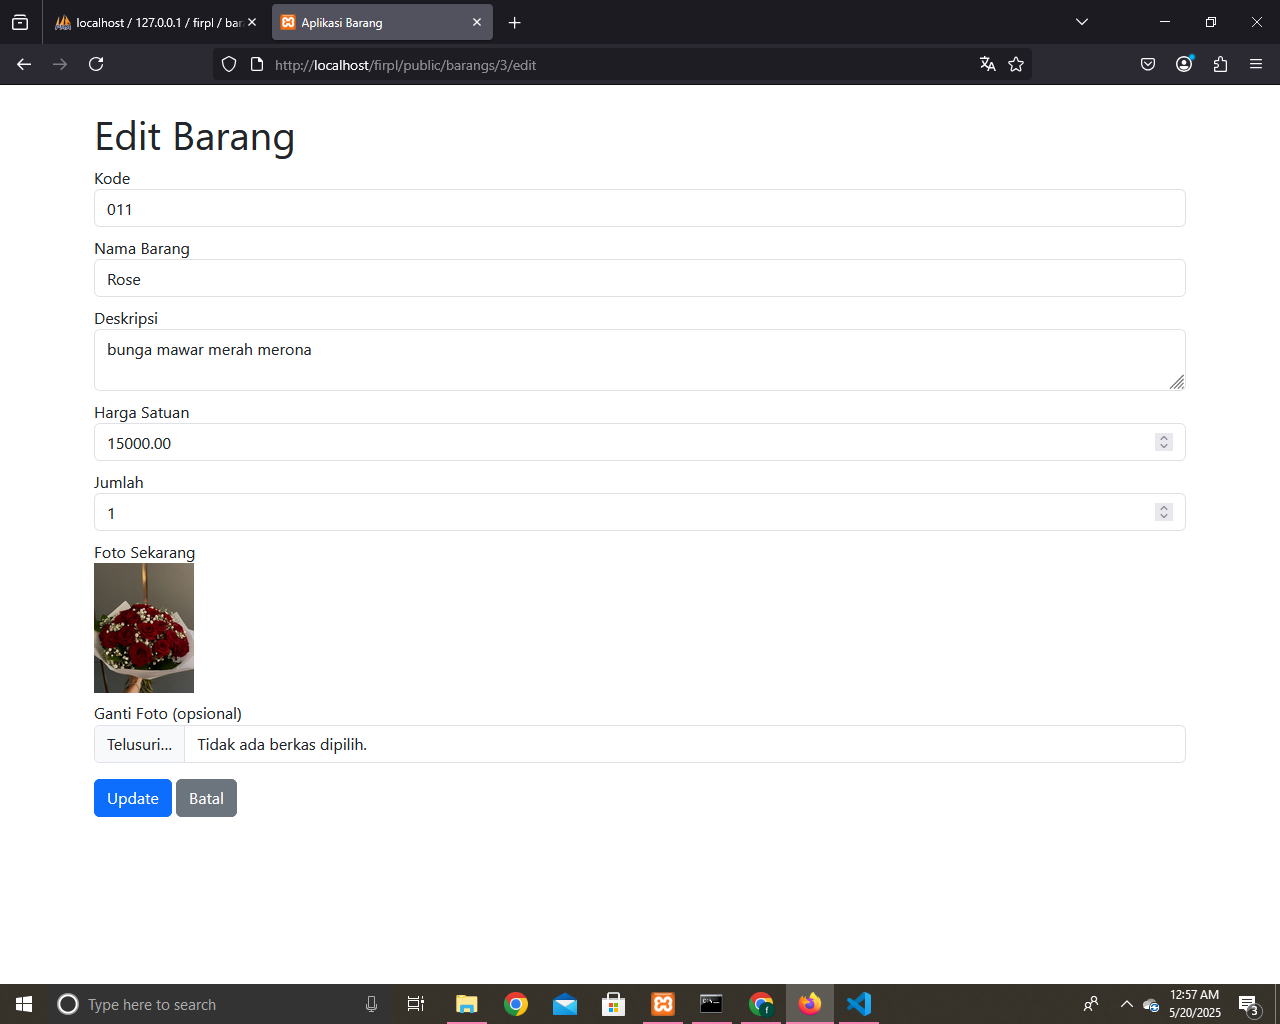
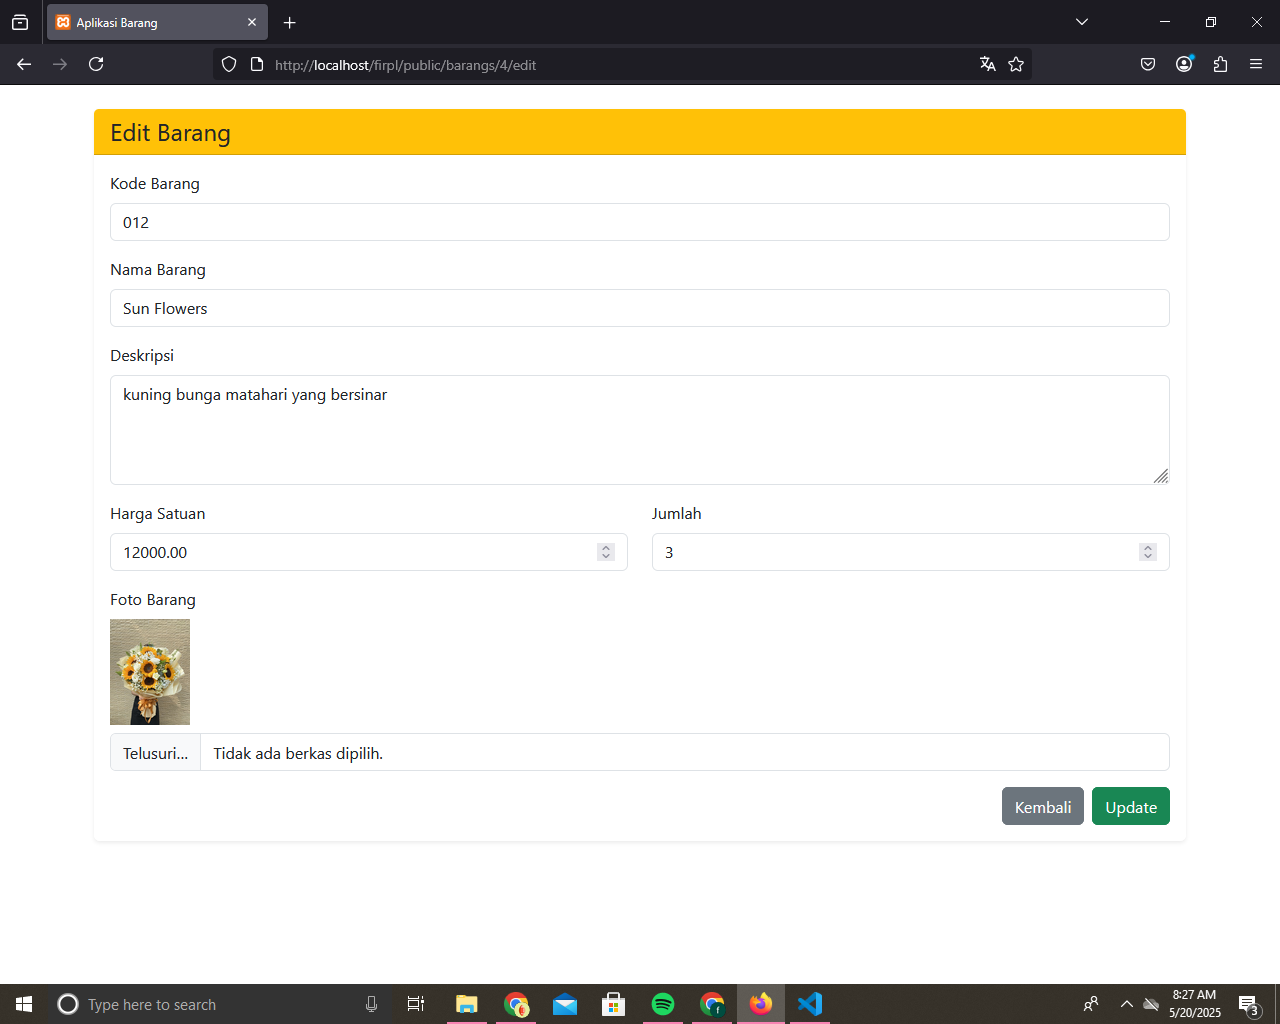
Update kode dan tampilan terbaru

diff --git a/resources/views/barangs/index.blade.php b/resources/views/barangs/index.blade.php
@@ -1,54 +1,62 @@
-@extends('layouts.app') {{-- Kalau belum punya layouts, hapus baris ini dan @section sampai @endsection --}}
+@extends('layouts.app')
 
 @section('content')
 <div class="container">
-    <h1>Daftar Barang</h1>
-    <a href="{{ route('barangs.create') }}" class="btn btn-success mb-3">Tambah Barang</a>
+    <h1 class="mb-4 display-6 fw-bold border-bottom pb-2 text-uppercase text-dark">
+        <i class="bi bi-box-seam-fill me-2 text-primary"></i> Daftar Barang
+    </h1>
+
+    <a href="{{ route('barangs.create') }}" class="btn btn-success mb-4 shadow-sm">
+        <i class="bi bi-plus-circle"></i> Tambah Barang
+    </a>
 
     @if(session('success'))
-        <div class="alert alert-success">
+        <div class="alert alert-success alert-dismissible fade show" role="alert">
             {{ session('success') }}
+            <button type="button" class="btn-close" data-bs-dismiss="alert" aria-label="Close"></button>
         </div>
     @endif
 
-    <table class="table table-bordered">
-        <thead>
-            <tr>
-                <th>Kode</th>
-                <th>Nama Barang</th>
-                <th>Deskripsi</th>
-                <th>Harga Satuan</th>
-                <th>Jumlah</th>
-                <th>Foto</th>
-                <th>Aksi</th>
-            </tr>
-        </thead>
-        <tbody>
-            @foreach($barangs as $barang)
+    <div class="table-responsive shadow-sm">
+        <table class="table table-bordered table-hover align-middle text-center">
+            <thead class="table-dark text-uppercase">
                 <tr>
-                    <td>{{ $barang->kode }}</td>
-                    <td>{{ $barang->nama_barang }}</td>
-                    <td>{{ $barang->deskripsi }}</td>
-                    <td>Rp{{ number_format($barang->harga_satuan, 0, ',', '.') }}</td>
-                    <td>{{ $barang->jumlah }}</td>
-                    <td>
-                        @if($barang->foto)
-                            <img src="{{ asset('storage/' . $barang->foto) }}" width="80">
-                        @else
-                            Tidak ada
-                        @endif
-                    </td>
-                    <td>
-                        <a href="{{ route('barangs.edit', $barang->id) }}" class="btn btn-warning btn-sm">Edit</a>
-                        <form action="{{ route('barangs.destroy', $barang->id) }}" method="POST" style="display:inline-block;" onsubmit="return confirm('Yakin hapus?')">
-                            @csrf
-                            @method('DELETE')
-                            <button class="btn btn-danger btn-sm">Hapus</button>
-                        </form>
-                    </td>
+                    <th class="fw-bold">Kode</th>
+                    <th class="fw-bold">Nama Barang</th>
+                    <th class="fw-bold">Deskripsi</th>
+                    <th class="fw-bold">Harga Satuan</th>
+                    <th class="fw-bold">Jumlah</th>
+                    <th class="fw-bold">Foto</th>
+                    <th class="fw-bold">Aksi</th>
                 </tr>
-            @endforeach
-        </tbody>
-    </table>
+            </thead>
+            <tbody>
+                @foreach($barangs as $barang)
+                    <tr>
+                        <td class="fw-semibold">{{ $barang->kode }}</td>
+                        <td class="fw-semibold">{{ $barang->nama_barang }}</td>
+                        <td>{{ $barang->deskripsi }}</td>
+                        <td>Rp{{ number_format($barang->harga_satuan, 0, ',', '.') }}</td>
+                        <td>{{ $barang->jumlah }}</td>
+                        <td>
+                            @if($barang->foto)
+                                <img src="{{ asset('storage/' . $barang->foto) }}" width="80" class="img-thumbnail">
+                            @else
+                                <span class="text-muted fst-italic">Tidak ada</span>
+                            @endif
+                        </td>
+                        <td>
+                            <a href="{{ route('barangs.edit', $barang->id) }}" class="btn btn-warning btn-sm mb-1">Edit</a>
+                            <form action="{{ route('barangs.destroy', $barang->id) }}" method="POST" style="display:inline-block;" onsubmit="return confirm('Yakin hapus?')">
+                                @csrf
+                                @method('DELETE')
+                                <button class="btn btn-danger btn-sm">Hapus</button>
+                            </form>
+                        </td>
+                    </tr>
+                @endforeach
+            </tbody>
+        </table>
+    </div>
 </div>
 @endsection

diff --git a/resources/views/barangs/edit.blade.php b/resources/views/barangs/edit.blade.php
@@ -1,54 +1,56 @@
 @extends('layouts.app')
 
 @section('content')
-<div class="container">
-    <h1>Edit Barang</h1>
-
-    <form action="{{ route('barangs.update', $barang->id) }}" method="POST" enctype="multipart/form-data">
-        @csrf
-        @method('PUT')
-
-        <div class="form-group mb-2">
-            <label>Kode</label>
-            <input type="text" name="kode" value="{{ $barang->kode }}" class="form-control" required>
+<div class="container mt-4">
+    <div class="card shadow-sm border-0">
+        <div class="card-header bg-warning text-dark">
+            <h4 class="mb-0">Edit Barang</h4>
         </div>
+        <div class="card-body">
+            <form action="{{ route('barangs.update', $barang->id) }}" method="POST" enctype="multipart/form-data">
+                @csrf
+                @method('PUT')
 
-        <div class="form-group mb-2">
-            <label>Nama Barang</label>
-            <input type="text" name="nama_barang" value="{{ $barang->nama_barang }}" class="form-control" required>
+                <div class="mb-3">
+                    <label for="kode" class="form-label">Kode Barang</label>
+                    <input type="text" name="kode" class="form-control" value="{{ $barang->kode }}" required>
+                </div>
+
+                <div class="mb-3">
+                    <label for="nama_barang" class="form-label">Nama Barang</label>
+                    <input type="text" name="nama_barang" class="form-control" value="{{ $barang->nama_barang }}" required>
+                </div>
+
+                <div class="mb-3">
+                    <label for="deskripsi" class="form-label">Deskripsi</label>
+                    <textarea name="deskripsi" class="form-control" rows="4" required>{{ $barang->deskripsi }}</textarea>
+                </div>
+
+                <div class="row">
+                    <div class="col-md-6 mb-3">
+                        <label for="harga_satuan" class="form-label">Harga Satuan</label>
+                        <input type="number" step="0.01" name="harga_satuan" class="form-control" value="{{ $barang->harga_satuan }}" required>
+                    </div>
+                    <div class="col-md-6 mb-3">
+                        <label for="jumlah" class="form-label">Jumlah</label>
+                        <input type="number" name="jumlah" class="form-control" value="{{ $barang->jumlah }}" required>
+                    </div>
+                </div>
+
+                <div class="mb-3">
+                    <label for="foto" class="form-label">Foto Barang</label><br>
+                    @if ($barang->foto)
+                        <img src="{{ asset('storage/' . $barang->foto) }}" width="80" class="mb-2"><br>
+                    @endif
+                    <input type="file" name="foto" class="form-control">
+                </div>
+
+                <div class="d-flex justify-content-end">
+                    <a href="{{ route('barangs.index') }}" class="btn btn-secondary me-2">Kembali</a>
+                    <button type="submit" class="btn btn-success">Update</button>
+                </div>
+            </form>
         </div>
-
-        <div class="form-group mb-2">
-            <label>Deskripsi</label>
-            <textarea name="deskripsi" class="form-control">{{ $barang->deskripsi }}</textarea>
-        </div>
-
-        <div class="form-group mb-2">
-            <label>Harga Satuan</label>
-            <input type="number" name="harga_satuan" value="{{ $barang->harga_satuan }}" class="form-control" required>
-        </div>
-
-        <div class="form-group mb-2">
-            <label>Jumlah</label>
-            <input type="number" name="jumlah" value="{{ $barang->jumlah }}" class="form-control" required>
-        </div>
-
-        <div class="form-group mb-2">
-            <label>Foto Sekarang</label><br>
-            @if($barang->foto)
-                <img src="{{ asset('storage/' . $barang->foto) }}" width="100">
-            @else
-                Tidak ada foto
-            @endif
-        </div>
-
-        <div class="form-group mb-3">
-            <label>Ganti Foto (opsional)</label>
-            <input type="file" name="foto" class="form-control">
-        </div>
-
-        <button type="submit" class="btn btn-primary">Update</button>
-        <a href="{{ route('barangs.index') }}" class="btn btn-secondary">Batal</a>
-    </form>
+    </div>
 </div>
 @endsection

diff --git a/resources/views/barangs/create.blade.php b/resources/views/barangs/create.blade.php
@@ -1,35 +1,52 @@
 @extends('layouts.app')
 
 @section('content')
-<div class="container">
-    <h2>Tambah Barang</h2>
-    <form action="{{ route('barangs.store') }}" method="POST" enctype="multipart/form-data">
-        @csrf
-        <div class="mb-3">
-            <label for="kode" class="form-label">Kode</label>
-            <input type="text" name="kode" class="form-control" required>
+<div class="container mt-4">
+    <div class="card shadow-sm border-0">
+        <div class="card-header bg-primary text-white">
+            <h4 class="mb-0">Tambah Data Barang</h4>
         </div>
-        <div class="mb-3">
-            <label for="nama_barang" class="form-label">Nama Barang</label>
-            <input type="text" name="nama_barang" class="form-control" required>
+        <div class="card-body">
+            <form action="{{ route('barangs.store') }}" method="POST" enctype="multipart/form-data">
+                @csrf
+
+                <div class="mb-3">
+                    <label for="kode" class="form-label">Kode Barang</label>
+                    <input type="text" name="kode" class="form-control" required>
+                </div>
+
+                <div class="mb-3">
+                    <label for="nama_barang" class="form-label">Nama Barang</label>
+                    <input type="text" name="nama_barang" class="form-control" required>
+                </div>
+
+                <div class="mb-3">
+                    <label for="deskripsi" class="form-label">Deskripsi</label>
+                    <textarea name="deskripsi" class="form-control" rows="4" required></textarea>
+                </div>
+
+                <div class="row">
+                    <div class="col-md-6 mb-3">
+                        <label for="harga_satuan" class="form-label">Harga Satuan</label>
+                        <input type="number" step="0.01" name="harga_satuan" class="form-control" required>
+                    </div>
+                    <div class="col-md-6 mb-3">
+                        <label for="jumlah" class="form-label">Jumlah</label>
+                        <input type="number" name="jumlah" class="form-control" required>
+                    </div>
+                </div>
+
+                <div class="mb-3">
+                    <label for="foto" class="form-label">Foto Barang (optional)</label>
+                    <input type="file" name="foto" class="form-control">
+                </div>
+
+                <div class="d-flex justify-content-end">
+                    <a href="{{ route('barangs.index') }}" class="btn btn-secondary me-2">Kembali</a>
+                    <button type="submit" class="btn btn-success">Simpan</button>
+                </div>
+            </form>
         </div>
-        <div class="mb-3">
-            <label for="deskripsi" class="form-label">Deskripsi</label>
-            <textarea name="deskripsi" class="form-control" rows="3" required></textarea>
-        </div>
-        <div class="mb-3">
-            <label for="harga_satuan" class="form-label">Harga Satuan</label>
-            <input type="number" name="harga_satuan" class="form-control" required>
-        </div>
-        <div class="mb-3">
-            <label for="jumlah" class="form-label">Jumlah</label>
-            <input type="number" name="jumlah" class="form-control" required>
-        </div>
-        <div class="mb-3">
-            <label for="foto" class="form-label">Foto</label>
-            <input type="file" name="foto" class="form-control">
-        </div>
-        <button type="submit" class="btn btn-primary">Simpan</button>
-    </form>
+    </div>
 </div>
 @endsection

diff --git a/README.md b/README.md
@@ -1,61 +1,38 @@
-<p align="center"><a href="https://laravel.com" target="_blank"><img src="https://raw.githubusercontent.com/laravel/art/master/logo-lockup/5%20SVG/2%20CMYK/1%20Full%20Color/laravel-logolockup-cmyk-red.svg" width="400" alt="Laravel Logo"></a></p>
+# Proyek CRUD Laravel - Barang
 
-<p align="center">
-<a href="https://github.com/laravel/framework/actions"><img src="https://github.com/laravel/framework/workflows/tests/badge.svg" alt="Build Status"></a>
-<a href="https://packagist.org/packages/laravel/framework"><img src="https://img.shields.io/packagist/dt/laravel/framework" alt="Total Downloads"></a>
-<a href="https://packagist.org/packages/laravel/framework"><img src="https://img.shields.io/packagist/v/laravel/framework" alt="Latest Stable Version"></a>
-<a href="https://packagist.org/packages/laravel/framework"><img src="https://img.shields.io/packagist/l/laravel/framework" alt="License"></a>
-</p>
+Ini adalah aplikasi CRUD sederhana menggunakan Laravel untuk mengelola data **barang**. Aplikasi ini dibuat untuk memenuhi tugas pemrograman web.
 
-## About Laravel
+## ✨ Fitur Aplikasi
 
-Laravel is a web application framework with expressive, elegant syntax. We believe development must be an enjoyable and creative experience to be truly fulfilling. Laravel takes the pain out of development by easing common tasks used in many web projects, such as:
+- Menampilkan daftar barang
+- Menambahkan barang baru
+- Mengedit data barang
+- Menghapus barang
+- Menyimpan foto/gambar barang
+- Validasi input
+- Menggunakan tampilan Bootstrap
 
-- [Simple, fast routing engine](https://laravel.com/docs/routing).
-- [Powerful dependency injection container](https://laravel.com/docs/container).
-- Multiple back-ends for [session](https://laravel.com/docs/session) and [cache](https://laravel.com/docs/cache) storage.
-- Expressive, intuitive [database ORM](https://laravel.com/docs/eloquent).
-- Database agnostic [schema migrations](https://laravel.com/docs/migrations).
-- [Robust background job processing](https://laravel.com/docs/queues).
-- [Real-time event broadcasting](https://laravel.com/docs/broadcasting).
+## 🛠 Teknologi yang Digunakan
 
-Laravel is accessible, powerful, and provides tools required for large, robust applications.
+- Laravel
+- PHP
+- MySQL
+- Bootstrap
+- Git & GitHub
 
-## Learning Laravel
+## 📸 Tampilan Aplikasi
 
-Laravel has the most extensive and thorough [documentation](https://laravel.com/docs) and video tutorial library of all modern web application frameworks, making it a breeze to get started with the framework.
+### ✅ Daftar Barang
+![Index](screenshots/tampilan-index.png)
 
-You may also try the [Laravel Bootcamp](https://bootcamp.laravel.com), where you will be guided through building a modern Laravel application from scratch.
+### ➕ Tambah Barang
+![Tambah](screenshots/tampilan-tambah.png)
 
-If you don't feel like reading, [Laracasts](https://laracasts.com) can help. Laracasts contains thousands of video tutorials on a range of topics including Laravel, modern PHP, unit testing, and JavaScript. Boost your skills by digging into our comprehensive video library.
+### ✏ Edit Barang
+![Edit](screenshots/tampilan-edit.png)
 
-## Laravel Sponsors
+## 💾 Cara Menjalankan Proyek
 
-We would like to extend our thanks to the following sponsors for funding Laravel development. If you are interested in becoming a sponsor, please visit the [Laravel Partners program](https://partners.laravel.com).
-
-### Premium Partners
-
-- **[Vehikl](https://vehikl.com)**
-- **[Tighten Co.](https://tighten.co)**
-- **[Kirschbaum Development Group](https://kirschbaumdevelopment.com)**
-- **[64 Robots](https://64robots.com)**
-- **[Curotec](https://www.curotec.com/services/technologies/laravel)**
-- **[DevSquad](https://devsquad.com/hire-laravel-developers)**
-- **[Redberry](https://redberry.international/laravel-development)**
-- **[Active Logic](https://activelogic.com)**
-
-## Contributing
-
-Thank you for considering contributing to the Laravel framework! The contribution guide can be found in the [Laravel documentation](https://laravel.com/docs/contributions).
-
-## Code of Conduct
-
-In order to ensure that the Laravel community is welcoming to all, please review and abide by the [Code of Conduct](https://laravel.com/docs/contributions#code-of-conduct).
-
-## Security Vulnerabilities
-
-If you discover a security vulnerability within Laravel, please send an e-mail to Taylor Otwell via [taylor@laravel.com](mailto:taylor@laravel.com). All security vulnerabilities will be promptly addressed.
-
-## License
-
-The Laravel framework is open-sourced software licensed under the [MIT license](https://opensource.org/licenses/MIT).
+1. Clone repo ini:
+   ```bash
+   git clone https://github.com/Firtaaulika05/firpl.git
